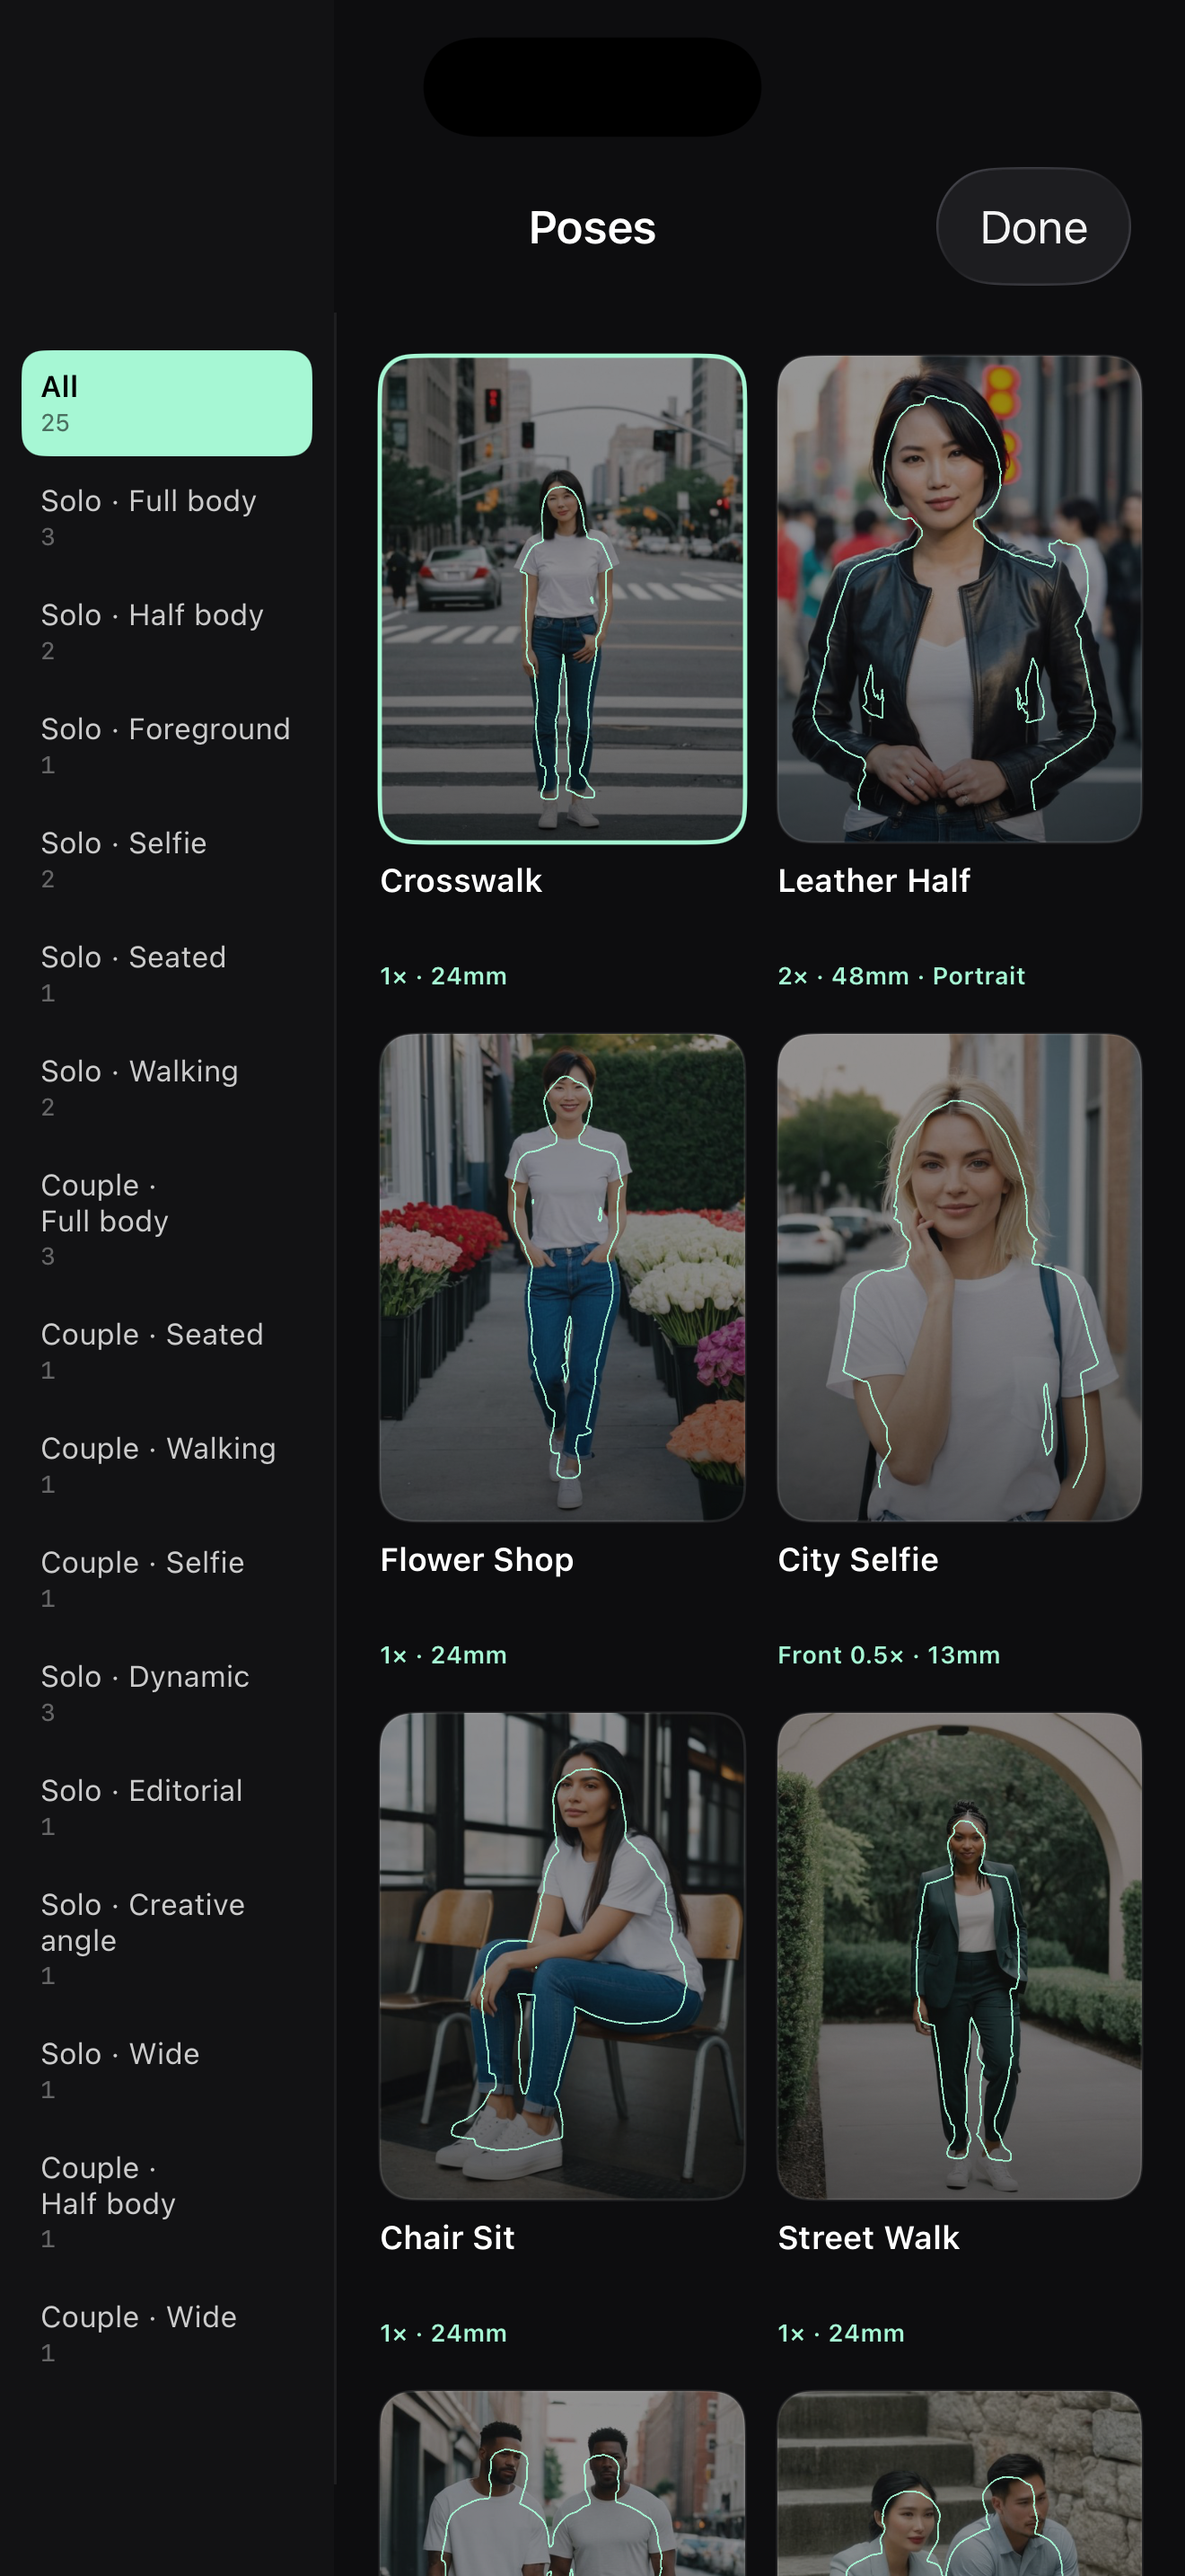
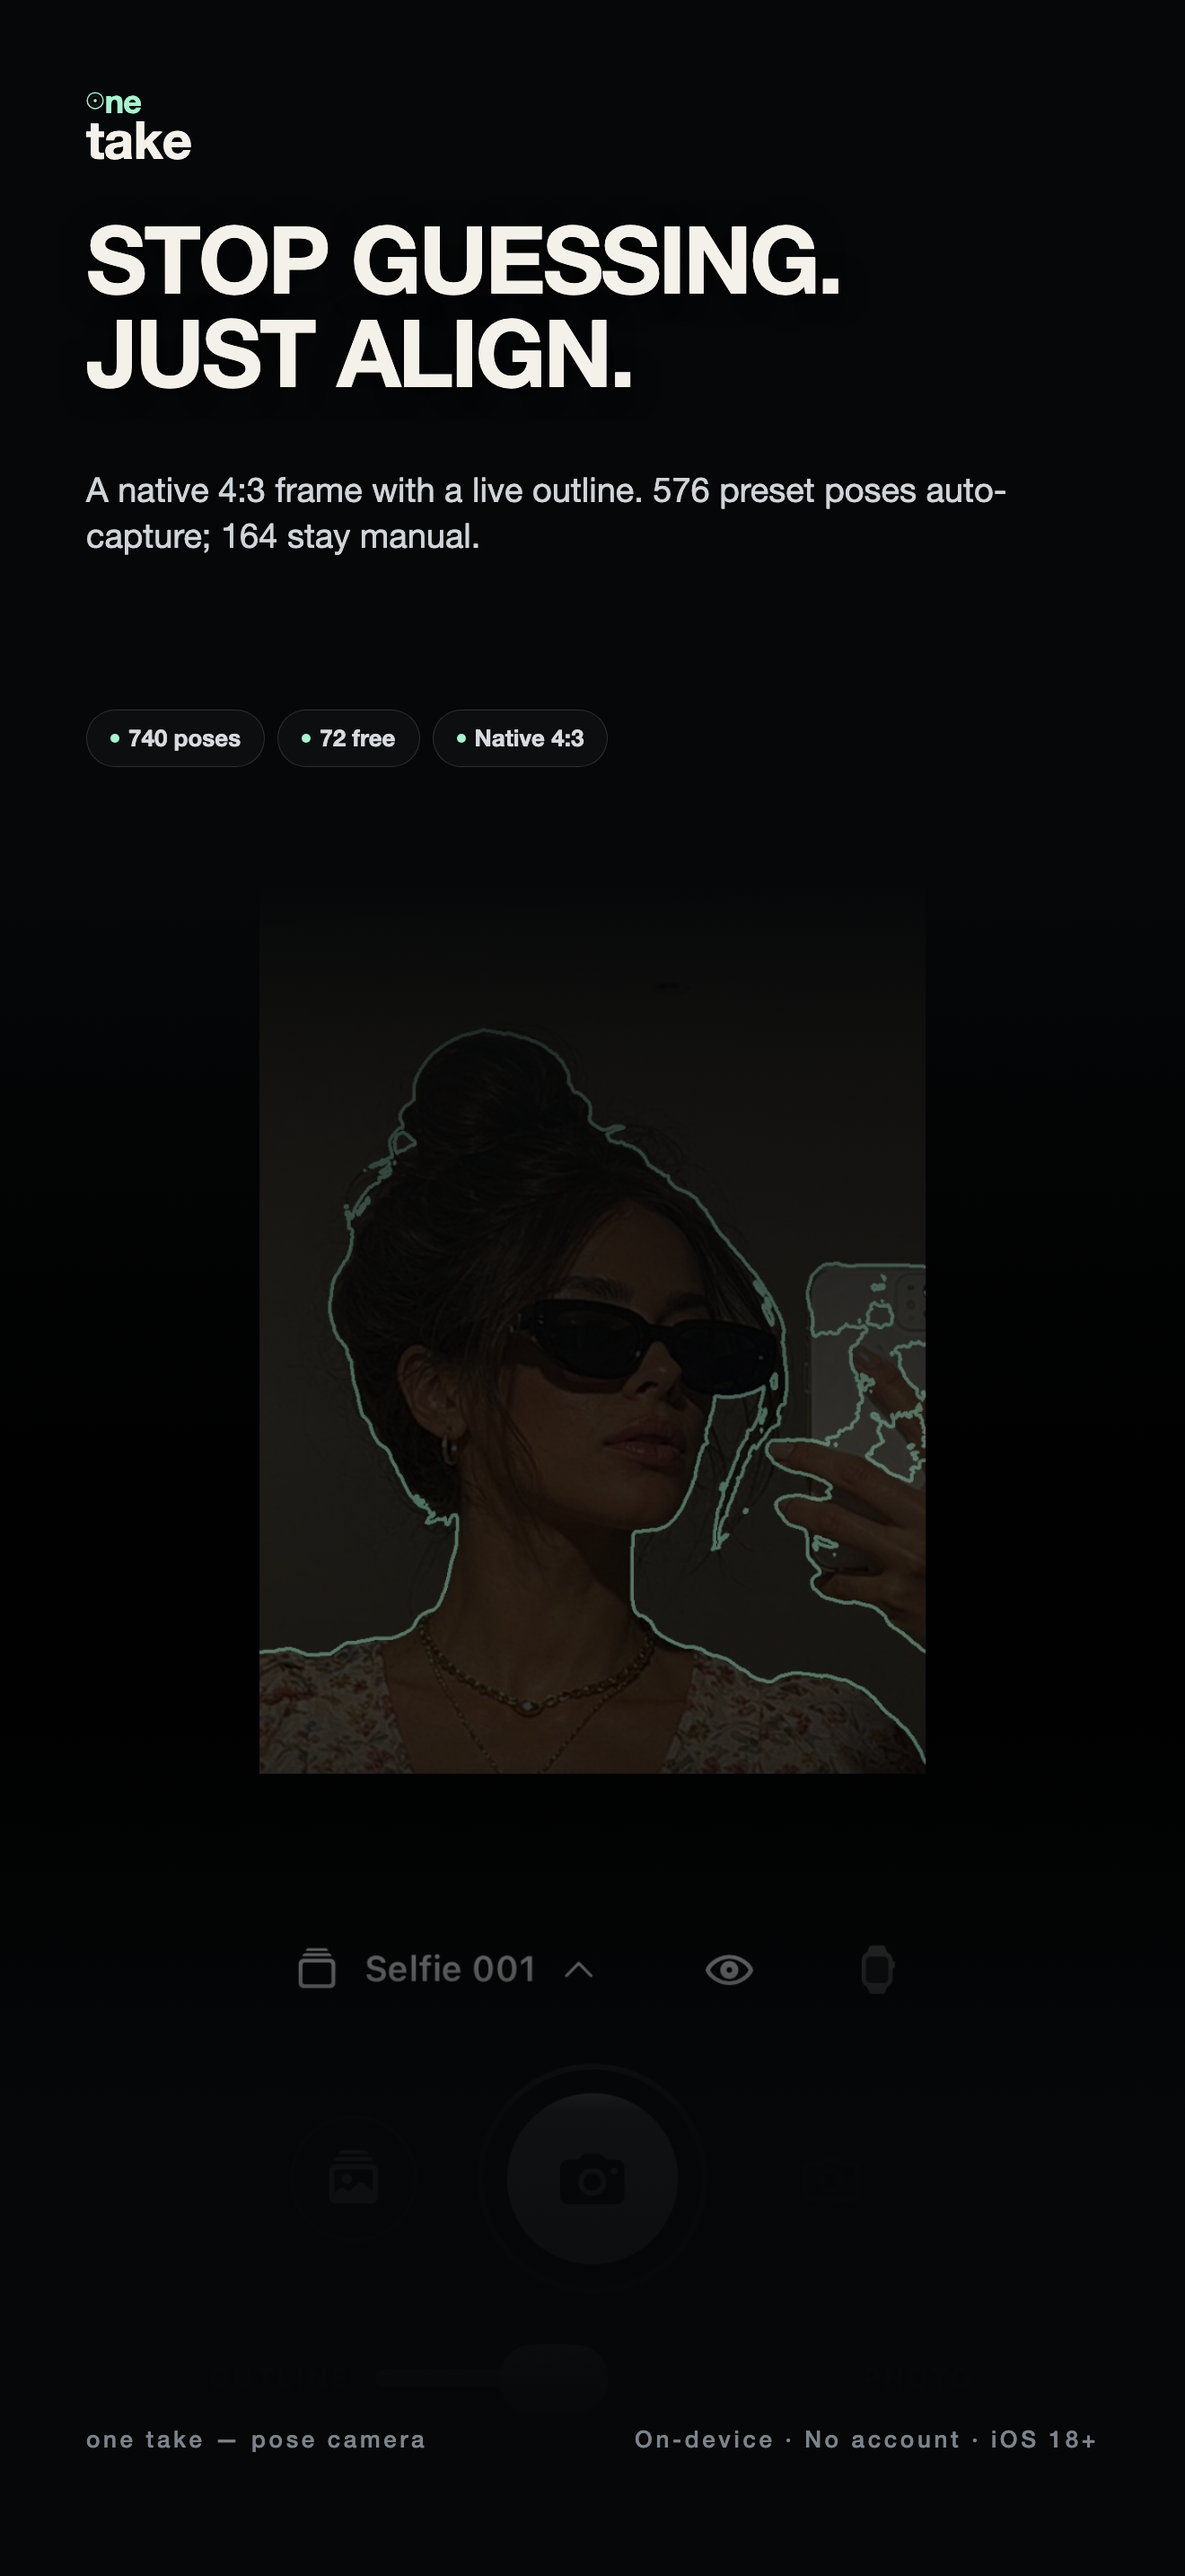
Add Build 31 user guide and update support copy

diff --git a/guide/index.html b/guide/index.html
@@ -1,0 +1,93 @@
+<!doctype html><html lang="en"><head><meta charset="utf-8"><meta name="viewport" content="width=device-width,initial-scale=1"><title>One Take — User Guide</title><style>body{font-family:-apple-system,BlinkMacSystemFont,"Segoe UI",sans-serif;max-width:780px;margin:40px auto;padding:0 22px;background:#0b0c0e;color:#e9ecef;line-height:1.65}h1,h2,h3{color:#a7f3cf}a{color:#a7f3cf}code{background:#1b1e22;padding:2px 5px;border-radius:4px}</style></head><body><h1>One Take — User Guide</h1>
+<p>One Take is a pose camera. Pick a reference pose, align your body to the live mint outline, and shoot. No account is required. Camera frames are processed on-device with Apple Vision; there are no ads.</p>
+<h2>Part 1 — Camera &amp; App Guide</h2>
+<h3>1. Open the camera</h3>
+<p>Open One Take and allow camera access. The camera opens with the <strong>native 4:3 frame</strong> on the main (1×) lens. The app does not zoom or crop to fill the phone screen; unused screen area is letterboxed.</p>
+<ul>
+<li>Portrait / horizontal poses: native 4:3 camera frame.</li>
+<li>Square (1:1) poses: the preview becomes 1:1 on both front and back cameras.</li>
+<li>The full native 4:3 photo is still saved for every shot.</li>
+</ul>
+<h3>2. Pick a pose</h3>
+<p>Tap <strong>Poses</strong> (bottom of the camera). Choose:</p>
+<ul>
+<li>**All**, **Selfie**, **Solo**, **Couple** or **Group** in the primary rail.</li>
+<li>**All**, **Portrait**, **Square** or **Horizontal** in the orientation rail.</li>
+<li>72 starter poses are free: 18 from each category, six from each orientation.</li>
+<li>Menu cards show the real orientation: 3:4, 1:1 or 3:2.</li>
+</ul>
+<h3>3. Use the overlay</h3>
+<p>The overlay keeps its own proportions inside the camera frame.</p>
+<ul>
+<li>**Tap the overlay** to show four handles.</li>
+<li>**Top-left** — rotate left/right (up to ±45°).</li>
+<li>**Top-right** — move up/down/left/right. The guide cannot leave the camera frame.</li>
+<li>**Bottom-right** — proportional scale from 0.5× to the maximum that fits the frame. Scaling is anchored at the opposite corner.</li>
+<li>**Bottom-left** — reset.</li>
+<li>Drag the eye button to hide or show the guide.</li>
+<li>The guide position is only for the current shot. Choosing a different pose resets it; the pose menu default is never changed.</li>
+</ul>
+<h3>4. Align and shoot</h3>
+<ul>
+<li>Move yourself until the outline fits your body.</li>
+<li>On preset-backed poses (576 of 740), auto-capture fires after about 0.8 seconds of stability.</li>
+<li>164 reference-only poses use the manual shutter.</li>
+<li>You can always tap the shutter manually.</li>
+<li>Front camera: the preview, guide and Watch preview are mirrored so left/right movement feels natural. Saved full-frame and crop images are **not** mirrored.</li>
+</ul>
+<h3>5. After the shot</h3>
+<ul>
+<li>The camera stays on the captured **crop**.</li>
+<li>Every shot saves two images to the app Gallery and iOS Photos:</li>
+</ul>
+<p>  1. Native full frame (4:3)</p>
+<p>  2. Overlay crop</p>
+<ul>
+<li>Choose **Back to Camera** or **Gallery**. There is no automatic return and no retake/delete flow.</li>
+<li>Gallery shows both images; the crop is the newest item.</li>
+</ul>
+<h3>6. Zoom</h3>
+<p>The normal lens opens at 1×. The zoom control remains available if you want to zoom; the overlay stays in its screen position and the auto-capture target follows the transformed overlay.</p>
+<h3>7. Settings</h3>
+<p>Open the gear in the camera top bar.</p>
+<ul>
+<li>**Language** — English, 繁體中文, 日本語, 한국어, ไทย, Bahasa Melayu.</li>
+<li>**Purchases** — current plan, Restore Purchases, Manage Subscription; purchases follow the Apple Account, no One Take account.</li>
+<li>**User Guide** — this guide, available offline.</li>
+<li>**Permissions** — camera/photos status and Open Settings.</li>
+<li>**Apple Watch** — Watch guide and foreground note.</li>
+<li>**About** — version/build, Privacy, Terms, Support.</li>
+</ul>
+<h2>Part 2 — Apple Watch Guide</h2>
+<p>The Watch app is a <strong>remote viewfinder and shutter</strong>, not a full camera feed.</p>
+<p>1. Install the One Take Watch app from the paired iPhone.</p>
+<p>2. Open One Take on iPhone and keep it in the foreground.</p>
+<p>3. Choose a pose on iPhone.</p>
+<p>4. Tap the Watch icon on the camera, then open One Take on Watch.</p>
+<p>5. The Watch shows a low-resolution preview with the current guide.</p>
+<p>6. Align in the Watch preview and tap <strong>Capture</strong>; iPhone takes the photo and saves the full frame + crop.</p>
+<p>7. Overlay move/scale/rotate and front-camera mirroring sync to Watch.</p>
+<p>8. If the iPhone app is backgrounded or the screen locks, remote preview stops. Bring the iPhone app back to the foreground.</p>
+<h2>Poses, packs and Lifetime</h2>
+<ul>
+<li>740 poses: Selfie 113 · Solo 185 · Couple 295 · Group 147.</li>
+<li>Free starter: 72 (18 per category).</li>
+<li>Four category packs: Selfie 95 · Solo 167 · Couple 277 · Group 129. Each pack includes every orientation.</li>
+<li>Pro Lifetime unlocks all current and future poses and packs.</li>
+<li>Pro Monthly is not offered in version 1.0.</li>
+</ul>
+<h2>FAQ</h2>
+<p><strong>Why is there a black bar around the camera?</strong>  </p>
+<p>The app shows the camera&#x27;s native 4:3 frame. It does not crop/zoom to fill a tall phone screen.</p>
+<p><strong>Why did the outline not capture automatically?</strong>  </p>
+<p>Auto-capture needs a clear body view and about 0.8 seconds of stability. Some poses are reference-only and always use the manual shutter.</p>
+<p><strong>Why do I see two photos?</strong>  </p>
+<p>Every shot saves a native full frame and a cropped composition of the guide.</p>
+<p><strong>Where are my photos?</strong>  </p>
+<p>In the in-app Gallery and in iOS Photos. Photo access is add-only.</p>
+<p><strong>Does the Watch work when iPhone is locked?</strong>  </p>
+<p>No. Keep the iPhone app in the foreground and the screen awake.</p>
+<p><strong>How do I restore purchases?</strong>  </p>
+<p>Settings → Purchases → Restore Purchases.</p>
+<p><strong>Privacy</strong>  </p>
+<p><a href="https://yumizhi-opc.github.io/onetake-site/privacy/">https://yumizhi-opc.github.io/onetake-site/privacy/</a></p></body></html>

diff --git a/index.html b/index.html
@@ -31,24 +31,24 @@ section{padding:56px 0;border-top:1px solid var(--line)}h2{font-size:13px;letter
   <div>
     <h1>Stop guessing.<br><em>Just align.</em></h1>
     <p class="lead">One Take is a pose camera for people who don’t know how to pose. Pick a reference, see a live translucent outline over your camera, align your body — the shutter fires automatically.</p>
-    <a class="cta" href="support/">Get support</a>
+    <a class="cta" href="guide/">User Guide</a> <a class="cta" href="support/" style="background:transparent;border:1px solid var(--line);color:var(--ink)">Support</a>
   </div>
   <div class="phone"><img src="assets/app-screen.png" alt="One Take app showing a pose outline and lens guidance"></div>
 </div>
 <section>
   <h2>How it works</h2>
   <div class="grid">
-    <div class="card"><h3>1 · Pick a pose</h3><p>25 curated solo and couple references, from full-body street shots to close-up portraits.</p></div>
-    <div class="card"><h3>2 · See the outline</h3><p>A translucent silhouette and faint scene lines show exactly where to stand, where to look, and how to frame.</p></div>
-    <div class="card"><h3>3 · Let it shoot</h3><p>When your body matches the reference for 0.8 seconds, One Take captures automatically. Or tap the shutter.</p></div>
+    <div class="card"><h3>1 · Pick a pose</h3><p>740 pose references across Selfie, Solo, Couple and Group — portrait, square and horizontal. 72 starter poses are free.</p></div>
+    <div class="card"><h3>2 · See the outline</h3><p>A translucent guide shows the pose. Move, rotate or scale it with the four corner handles before you shoot.</p></div>
+    <div class="card"><h3>3 · Let it shoot</h3><p>When your body matches a preset-backed pose for about 0.8 seconds, One Take captures automatically. Or tap the shutter.</p></div>
   </div>
 </section>
 <section>
   <h2>Built for real photos</h2>
   <div class="grid">
-    <div class="card"><h3>Lens guidance</h3><p>Each pose tells you 0.5×, 1×, 2× or 3×, the 35mm equivalent, whether Portrait mode helps, and how far to stand.</p></div>
+    <div class="card"><h3>Lens guidance</h3><p>The camera opens on its native 4:3 frame at 1×. Zoom stays available; 1:1 poses preview in 1:1.</p></div>
     <div class="card"><h3>Outline ↔ photo</h3><p>Slide from pure line art to a faint reference photo when you need to see face direction and expression.</p></div>
-    <div class="card"><h3>On-device</h3><p>Pose tracking happens on your iPhone. No account, no upload, no analytics.</p></div>
+    <div class="card"><h3>On-device</h3><p>Pose tracking happens on your iPhone with Apple Vision. No account, no upload, no ads, no tracking.</p></div>
   </div>
 </section>
 <section>
@@ -57,9 +57,9 @@ section{padding:56px 0;border-top:1px solid var(--line)}h2{font-size:13px;letter
     <img src="assets/app-screen.png" alt="One Take camera screen with live outline">
     <img src="assets/pose-picker.png" alt="One Take pose picker with photo references">
   </div>
-  <p class="note">Reference photos are used only inside the app to generate your ghost overlay.</p>
+  <p class="note">One Take shows a live guide over the camera. Every capture saves a native full frame and an overlay crop; both stay in your Gallery and iOS Photos.</p>
 </section>
 </main>
-<footer class="footer"><div class="wrap">© 2026 One Take · <a href="privacy/">Privacy</a> · <a href="support/">Support</a></div></footer>
+<footer class="footer"><div class="wrap">© 2026 One Take · <a href="guide/">User Guide</a> · <a href="privacy/">Privacy</a> · <a href="support/">Support</a></div></footer>
 </body>
 </html>

diff --git a/support/index.html b/support/index.html
@@ -14,7 +14,7 @@ p,li{color:var(--muted)}a{color:var(--mint)}.back{font-size:13px}.box{background
 <body><div class="wrap">
 <a class="back" href="../">← One Take</a>
 <h1>Support</h1>
-<p>One Take is a minimal pose camera. If something doesn’t work, start here.</p>
+<p>One Take is a pose camera for people who don’t know how to pose. If something doesn’t work, start here.</p>
 <div class="box"><strong>Contact</strong><br>Open an issue at <a href="https://github.com/yumizhi-opc/onetake-site/issues">github.com/yumizhi-opc/onetake-site/issues</a> and include your iPhone model and iOS version.</div>
 <h2>Requirements</h2>
 <p>iPhone with iOS 18 or later and a rear camera. The Simulator can show the pose library and outline, but live camera and auto-capture require a physical iPhone.</p>
@@ -24,9 +24,13 @@ p,li{color:var(--muted)}a{color:var(--mint)}.back{font-size:13px}.box{background
 <p>One Take asks for add-only photo library access when saving a shot. If saving fails, check Settings → One Take → Photos → Add Photos Only.</p>
 <h2>Auto-capture</h2>
 <p>Auto-capture fires after your pose matches the reference for about 0.8 seconds. If it fires too easily or not easily enough, use the manual shutter and tell us your iPhone model so we can tune it.</p>
-<h2>Pose guidance</h2>
-<p>Each pose shows an iPhone lens (0.5×, 1×, 2× or 3×), a 35mm-equivalent focal length, whether Portrait mode is recommended, and a suggested distance. Distances are starting points, not strict rules.</p>
+<h2>Capture</h2>
+<p>The camera opens on its native 4:3 frame at the normal 1× lens. Square poses preview in 1:1. Every shot saves a native full frame and an overlay crop to the in-app Gallery and iOS Photos. Review stays on the crop; use Back to Camera or Gallery.</p>
+<h2>Overlay and Watch</h2>
+<p>Tap the guide to show four handles: rotate, move, scale and reset. Auto-capture follows the moved guide. Apple Watch works as a low-resolution remote preview and shutter while the iPhone app stays in the foreground.</p>
+<h2>User Guide</h2>
+<p>Read the full <a href="../guide/">Camera and Apple Watch guide</a>.</p>
 <h2>Privacy</h2>
-<p>No account. No upload. No analytics. Read the <a href="../privacy/">privacy policy</a>.</p>
+<p>No account. No ads. No tracking. Camera frames are processed on-device with Apple Vision. Read the <a href="../privacy/">privacy policy</a>.</p>
 </div></body>
 </html>
